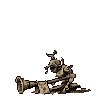
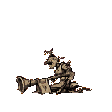
Mượt mức 2: vẽ lại Kèn Câm chết (đầu ngang 2 khung kề, hết lún-nảy)
Claude-Session: https://claude.ai/code/session_01W9tcvqtq7TKxDYHKwgQMJZ

Changed region(s): [[0.1339, 0.4286, 0.8304, 0.8571]]

diff --git a/tieng-vong-cuoi-cung/docs/yeu-cau-anh/muot-2/024-ken-chet.md b/tieng-vong-cuoi-cung/docs/yeu-cau-anh/muot-2/024-ken-chet.md
@@ -1,5 +1,5 @@
 # 024 – Kèn Câm – chết: 1 khung khuỵu gối giữa F5–F6 (P1)
-- **Trạng thái:** VẼ LẠI (02/11, phiên MƯỢT-2 kiểm: moi-01 thân + đầu THẤP HƠN cả F5 lẫn F6 (đầu ~5–10 px dưới F5, F6) → khi chạy thấy lún xuống rồi nảy lên; hình hơi lấm tấm, kèn nhạt màu. Cần: dáng nằm giữa F5 và F6 – đầu cao ngang khoảng giữa F5 và F6, kèn trượt dần ra trước chạm đất, cờ rủ; viền tối 1 px, mảng màu phẳng sắc như F5/F6. Prompt thêm: 'head height exactly halfway between the left and right frames, never lower than both; same 1-pixel dark outline, flat crisp shading, no noise'.)
+- **Trạng thái:** XONG (02/11, vẽ lại lần 2 – đỉnh đầu y=48 nằm giữa F5 (47) và F6 (47), không còn thấp hơn cả hai; đáy 94 như F5/F6)
 - **Clip:** `quai.json → loai.ken.hinh.chet` – thư mục art gốc `art/quai-moi/ken/chet/` (9 khung `fNN.png`, ô 112×112, quay TRÁI, neo chân [50, 92])
 - **Việc cần vẽ:** Vẽ **1 khung mới** `moi-01`, chèn SAU F5.
 - **Dáng khung mới (lời ChatGPT, duyệt 02/11):** "Đầu clip giữ lâu, ngã F5→F6 quá nhanh; trượt chân 9%; giữ khung cuối; cần thì thêm khung khuỵu gối giữa F5–F6."
